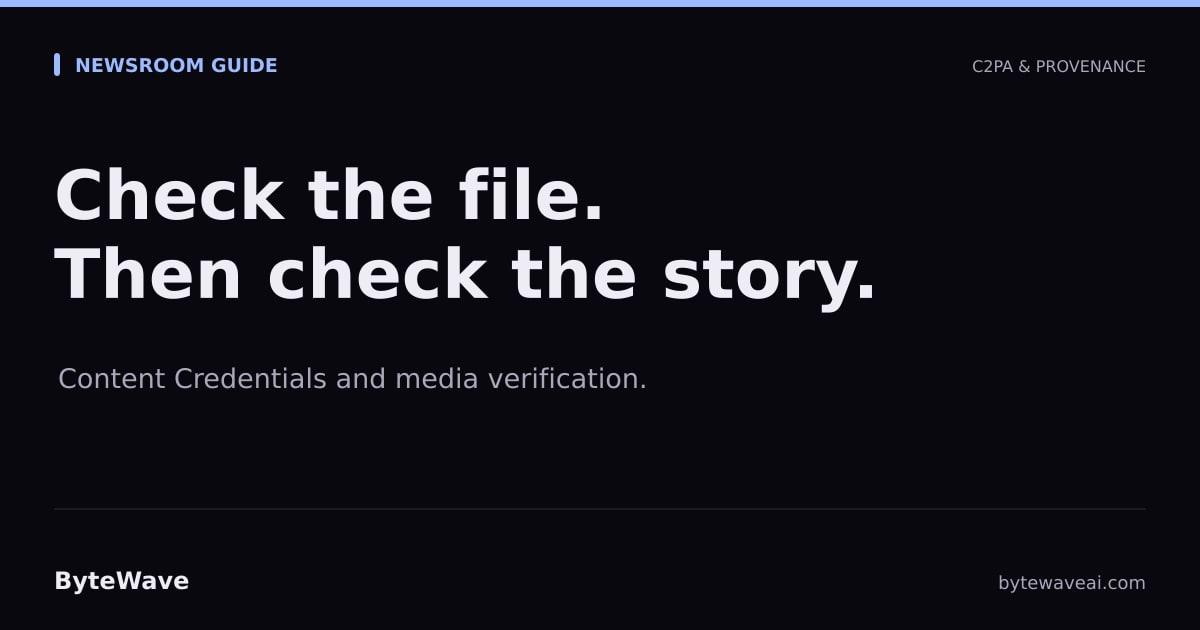
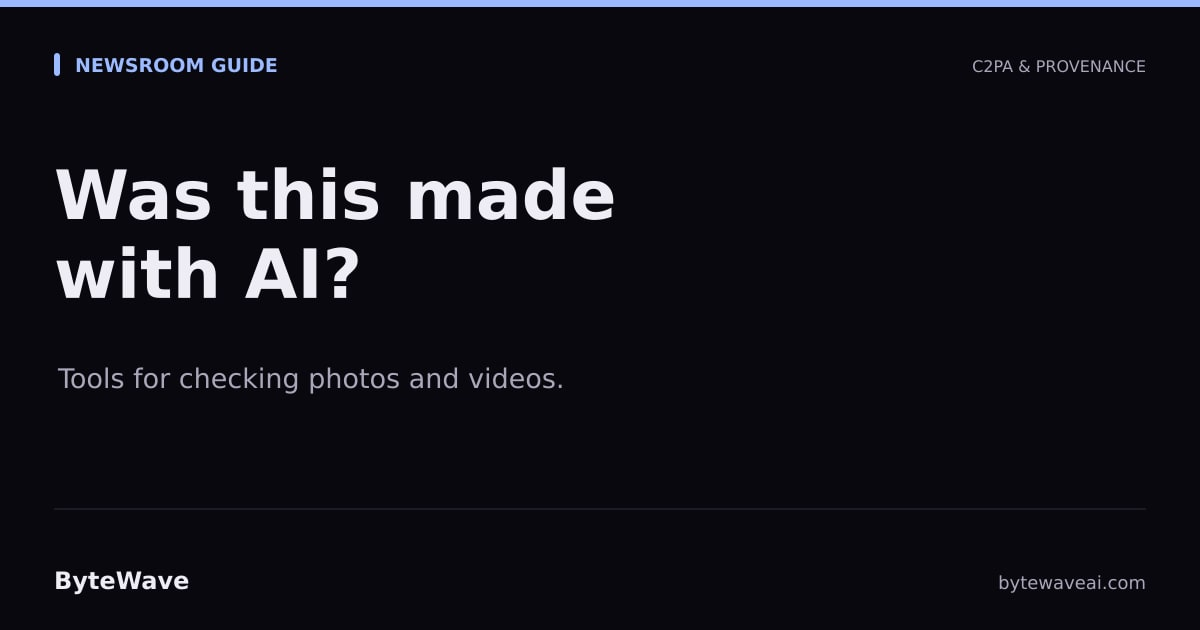
Use plain language for AI checks and signed exports

Changed region(s): [[0.0308, 0.3921, 0.74, 0.5127], [0.0308, 0.2413, 0.5242, 0.3619], [0.0308, 0.573, 0.5242, 0.6333]]

diff --git a/blog/tools-newsrooms-check-ai-generated-media.html b/blog/tools-newsrooms-check-ai-generated-media.html
@@ -4,23 +4,23 @@
     <meta charset="UTF-8">
     <meta name="viewport" content="width=device-width, initial-scale=1.0">
     <title>What Tools Help Newsrooms Check Whether Media Is AI-Generated? - ByteWave</title>
-    <meta name="description" content="Compare ByteWave, Content Credentials Verify, and InVID-WeVerify for newsroom media checks. Inspect C2PA evidence, trace sources, and understand the limits.">
+    <meta name="description" content="Tools to help newsrooms check AI-generated photos and videos: ByteWave, Content Credentials Verify, and InVID-WeVerify. What each can tell you.">
     <link rel="canonical" href="https://bytewaveai.com/blog/tools-newsrooms-check-ai-generated-media.html">
     <meta property="og:type" content="article">
     <meta property="og:title" content="What Tools Help Newsrooms Check Whether Media Is AI-Generated?">
-    <meta property="og:description" content="Compare ByteWave, Content Credentials Verify, and InVID-WeVerify for newsroom media checks. Inspect C2PA evidence, trace sources, and understand the limits.">
+    <meta property="og:description" content="Tools to help newsrooms check AI-generated photos and videos: ByteWave, Content Credentials Verify, and InVID-WeVerify. What each can tell you.">
     <meta property="og:url" content="https://bytewaveai.com/blog/tools-newsrooms-check-ai-generated-media.html">
     <meta property="og:site_name" content="ByteWave">
     <meta property="og:image" content="https://bytewaveai.com/assets/social/tools-newsrooms-check-ai-generated-media.jpg">
     <meta property="og:image:type" content="image/jpeg">
     <meta property="og:image:width" content="1200">
     <meta property="og:image:height" content="630">
-    <meta property="og:image:alt" content="Check the file. Then check the story. Content Credentials and media verification.">
+    <meta property="og:image:alt" content="Was this made with AI? Tools for checking photos and videos.">
     <meta name="twitter:card" content="summary_large_image">
     <meta name="twitter:title" content="What Tools Help Newsrooms Check Whether Media Is AI-Generated?">
-    <meta name="twitter:description" content="Compare ByteWave, Content Credentials Verify, and InVID-WeVerify for newsroom media checks. Inspect C2PA evidence, trace sources, and understand the limits.">
+    <meta name="twitter:description" content="Tools to help newsrooms check AI-generated photos and videos: ByteWave, Content Credentials Verify, and InVID-WeVerify. What each can tell you.">
     <meta name="twitter:image" content="https://bytewaveai.com/assets/social/tools-newsrooms-check-ai-generated-media.jpg">
-    <meta name="twitter:image:alt" content="Check the file. Then check the story. Content Credentials and media verification.">
+    <meta name="twitter:image:alt" content="Was this made with AI? Tools for checking photos and videos.">
     <meta property="article:published_time" content="2026-09-28">
     <meta property="article:modified_time" content="2026-09-28">
     <link rel="icon" href="/favicon-48x48.png">
@@ -37,7 +37,7 @@ article{overflow-wrap:anywhere}h2[id]{scroll-margin-top:6rem}li+li{margin-top:.6
     {
       "@type": "BlogPosting",
       "headline": "What Tools Help Newsrooms Check Whether Media Is AI-Generated?",
-      "description": "Compare ByteWave, Content Credentials Verify, and InVID-WeVerify for newsroom media checks. Inspect C2PA evidence, trace sources, and understand the limits.",
+      "description": "Tools to help newsrooms check AI-generated photos and videos: ByteWave, Content Credentials Verify, and InVID-WeVerify. What each can tell you.",
       "url": "https://bytewaveai.com/blog/tools-newsrooms-check-ai-generated-media.html",
       "mainEntityOfPage": "https://bytewaveai.com/blog/tools-newsrooms-check-ai-generated-media.html",
       "datePublished": "2026-09-28",
@@ -110,35 +110,35 @@ article{overflow-wrap:anywhere}h2[id]{scroll-margin-top:6rem}li+li{margin-top:.6
     <h1>What Tools Help Newsrooms Check Whether Media Is AI-Generated?</h1>
     <p class="meta">By <a href="/about.html">ByteWave</a> · Published <time datetime="2026-09-28">September 28, 2026</time></p>
     <p class="disclosure ai-disclosure"><strong>AI disclosure:</strong> This article includes text generated with an AI language model (LLM). Published by ByteWave, which makes the app discussed here.</p>
-    <p class="lead">Start with the file’s history. ByteWave and Content Credentials Verify help inspect signed provenance. InVID-WeVerify helps trace images and video back to their sources. Use the evidence together.</p>
+    <p class="lead">ByteWave and Content Credentials Verify can read records attached to a photo or video, including labels that disclose AI generation. InVID-WeVerify helps you find where an image or video appeared before.</p>
 
-    <h2>Three tools. Different jobs.</h2>
+    <h2>Tools for checking photos and videos</h2>
     <table>
         <caption>Tools for checking media before publication</caption>
         <thead><tr><th scope="col">Tool</th><th scope="col">What it helps check</th></tr></thead>
         <tbody>
-            <tr><th scope="row"><a href="/tutorials/check-c2pa-content-credentials/">ByteWave</a></th><td>Supported embedded C2PA credentials, including signed AI-generation declarations. Checks run locally on iPhone, iPad, and Apple Silicon Mac.</td></tr>
-            <tr><th scope="row"><a href="https://verify.contentauthenticity.org/">Content Credentials Verify</a></th><td>A web inspector for Content Credentials and the recorded history of a file.</td></tr>
-            <tr><th scope="row"><a href="https://weverify.eu/verification-plugin/">InVID-WeVerify</a></th><td>Video keyframes, reverse image searches, and metadata to investigate earlier appearances and context.</td></tr>
+            <tr><th scope="row"><a href="/tutorials/check-c2pa-content-credentials/">ByteWave</a></th><td>Reads supported C2PA Content Credentials stored in the file, including signed AI-generation labels. Runs on iPhone, iPad, and Apple Silicon Mac.</td></tr>
+            <tr><th scope="row"><a href="https://verify.contentauthenticity.org/">Content Credentials Verify</a></th><td>Shows Content Credentials and recorded changes to a file in your browser.</td></tr>
+            <tr><th scope="row"><a href="https://weverify.eu/verification-plugin/">InVID-WeVerify</a></th><td>Extracts frames from videos, searches for matching images, and reads file metadata to help you find earlier versions.</td></tr>
         </tbody>
     </table>
-    <p>These checks answer different questions. A reused video with a false caption can mislead without any AI generation.</p>
+    <p>An old video with a false caption can mislead people too. Finding its original source matters even when AI was never involved.</p>
 
-    <h2>Check the file. Then check the story.</h2>
+    <h2>Before you publish</h2>
     <ol>
         <li><strong>Get the original.</strong> Keep an untouched copy. Check it before editing, exporting, or removing metadata.</li>
-        <li><strong>Inspect the credentials.</strong> Look for signed origin or AI-generation information. In ByteWave, <strong>Verified AI-generated</strong> means a signed declaration passed the app’s configured signing-identity and media-integrity checks.</li>
-        <li><strong>Trace the source.</strong> Search keyframes for earlier appearances. Corroborate the creator, date, location, and claim with independent evidence.</li>
-        <li><strong>Record what you found.</strong> Save the file, tool result, and supporting sources. Keep an inconclusive result inconclusive.</li>
+        <li><strong>Check for AI labels.</strong> ByteWave’s <strong>Verified AI-generated</strong> result means it checked a signed record saying the file was AI-generated. The signer and file passed the app’s verification checks.</li>
+        <li><strong>Find the source.</strong> Search frames from the video for earlier appearances. Check who made it, when and where it was recorded, and whether other sources support the story.</li>
+        <li><strong>Save your findings.</strong> Keep the file, check result, and sources. If you cannot establish where it came from, say so.</li>
     </ol>
-    <p><a href="/tutorials/check-c2pa-content-credentials/">See exactly where to check C2PA credentials in ByteWave →</a></p>
+    <p><a href="/tutorials/check-c2pa-content-credentials/">How to check a file in ByteWave →</a></p>
 
-    <h2>A signature has limits.</h2>
-    <p><strong>Missing credentials do not prove real or fake. Valid credentials do not prove a scene happened.</strong> Credentials can be absent or stripped, and unsupported or untrusted credentials may be inconclusive. <a href="https://spec.c2pa.org/specifications/specifications/2.2/explainer/Explainer.html">C2PA explains its scope and limits</a>.</p>
-    <p>ByteWave reads supported embedded credentials; it is not a universal AI detector. Its metadata assessments are separate from verified AI-generation declarations. Inspecting a file does not require posting it. Embedded checks run locally; downloading an iCloud original may require a connection.</p>
+    <h2>What these tools cannot tell you</h2>
+    <p><strong>No credentials does not mean real or fake. A valid signature does not prove a scene happened.</strong> Credentials can be missing, removed, or unreadable. A tool may also be unable to verify who signed them. <a href="https://spec.c2pa.org/specifications/specifications/2.2/explainer/Explainer.html">C2PA explains its scope and limits</a>.</p>
+    <p>ByteWave cannot identify every AI-generated file. An estimate based on metadata is different from a verified AI label. You do not need to post anything: the check runs on your device. Downloading an original from iCloud may still need internet access.</p>
 
-    <h2>Put provenance on your own work.</h2>
-    <p>ByteWave also signs exports to help verify their ByteWave origin and detect changes since signing. That is separate from reading incoming C2PA credentials. <a href="/blog/provenance.html">Learn what ByteWave provenance establishes</a>.</p>
+    <h2>ByteWave signs your exports</h2>
+    <p>Each ByteWave export gets a digital signature. It helps show that the file came from ByteWave and whether it changed after signing. <a href="/blog/provenance.html">How signed exports work</a>.</p>
     <p><a class="button" href="https://apps.apple.com/app/apple-store/id6752225642?pt=126768479&amp;ct=seo_newsroom_c2pa&amp;mt=8">Get ByteWave free</a></p>
 </article>
 </main>

diff --git a/index.html b/index.html
@@ -563,24 +563,22 @@
 </section>
 
 <section class="credentials-section" id="content-credentials" aria-labelledby="credentials-title">
-    <p class="eyebrow">C2PA &amp; video provenance</p>
-    <h2 id="credentials-title">Check what came in.<br>Sign what goes out.</h2>
+    <p class="eyebrow">Photos, videos, and AI</p>
+    <h2 id="credentials-title">Was this made with AI?</h2>
     <div class="credentials-grid">
         <div>
-            <span class="credentials-direction" aria-hidden="true">01 / IN</span>
-            <h3>Read Content Credentials.</h3>
-            <p>Inspect supported embedded C2PA credentials in photos and videos, including signed declarations of AI generation. Checks run on your device.</p>
+            <h3>Check a photo or video.</h3>
+            <p>ByteWave reads supported C2PA Content Credentials, including signed labels identifying AI-generated content. The check runs on your device.</p>
             <a href="/tutorials/check-c2pa-content-credentials/">How to check a file →</a>
         </div>
         <div>
-            <span class="credentials-direction" aria-hidden="true">02 / OUT</span>
-            <h3>Export with provenance.</h3>
-            <p>ByteWave signs your exports to help verify their ByteWave origin and detect changes since signing.</p>
-            <a href="/blog/provenance.html">What signed exports establish →</a>
+            <h3>Your exports are signed.</h3>
+            <p>Each export gets a digital signature. It helps show that the file came from ByteWave and whether it has changed since it was signed.</p>
+            <a href="/blog/provenance.html">How signed exports work →</a>
         </div>
     </div>
-    <p class="credentials-note">Missing credentials do not mean real or fake. A valid signature does not prove a scene happened.</p>
-    <a class="credentials-guide" href="/blog/tools-newsrooms-check-ai-generated-media.html">For journalists: tools to check AI-generated media →</a>
+    <p class="credentials-note">No credentials? That does not mean real or fake. A signature cannot prove that a scene happened.</p>
+    <a class="credentials-guide" href="/blog/tools-newsrooms-check-ai-generated-media.html">Checking footage for a story? Start here →</a>
 </section>
 
 <section class="geese-section" aria-labelledby="geese-title">
@@ -750,7 +748,7 @@
     <div class="feature-list">
         <div class="feature-item">
             <h3>C2PA checks &amp; video provenance</h3>
-            <p>Read supported embedded Content Credentials, check signed AI-generation declarations, and export with ByteWave provenance. Evidence about the file, with clear limits.</p>
+            <p>Check photos and videos for supported Content Credentials, including AI-generation labels. Your exports also get a digital signature to help identify later changes.</p>
         </div>
 
         <div class="feature-item">

diff --git a/assets/css/landing.css b/assets/css/landing.css
@@ -55,7 +55,6 @@ a:focus-visible, video:focus-visible { outline: 3px solid #f5bda7; outline-offse
 .credentials-section h2 { font-size: clamp(2.2rem, 4.6vw, 4rem); line-height: 1.07; letter-spacing: -.055em; margin: 1rem 0 2.5rem; }
 .credentials-grid { display: grid; grid-template-columns: repeat(2, minmax(0, 1fr)); gap: 3rem; }
 .credentials-grid > div { border-top: 1px solid var(--border); padding-top: 1.5rem; }
-.credentials-direction { font: 600 .75rem ui-monospace, monospace; letter-spacing: .12em; color: #f5bda7; }
 .credentials-grid h3 { font-size: 1.3rem; margin: .8rem 0; }
 .credentials-grid p { color: var(--text-dim); line-height: 1.7; max-width: 460px; margin-bottom: 1rem; }
 .credentials-section a { color: var(--accent); text-decoration: underline; text-underline-offset: 5px; }

diff --git a/blog/index.html b/blog/index.html
@@ -160,7 +160,7 @@ footer .tagline{margin-top:.3rem;font-size:.7rem;letter-spacing:0.3px}
   <a href="/blog/tools-newsrooms-check-ai-generated-media.html" class="post-card">
     <span class="tag">Newsroom guide</span>
     <h2>What Tools Help Newsrooms Check Whether Media Is AI-Generated?</h2>
-    <p>Check Content Credentials, trace the source, and document the evidence. Where ByteWave, Verify, and InVID-WeVerify fit.</p>
+    <p>Compare ByteWave, Content Credentials Verify, and InVID-WeVerify. What can they tell you about a photo or video?</p>
   </a>
 
   <a href="/blog/no-ai-label-does-not-mean-real.html" class="post-card">
